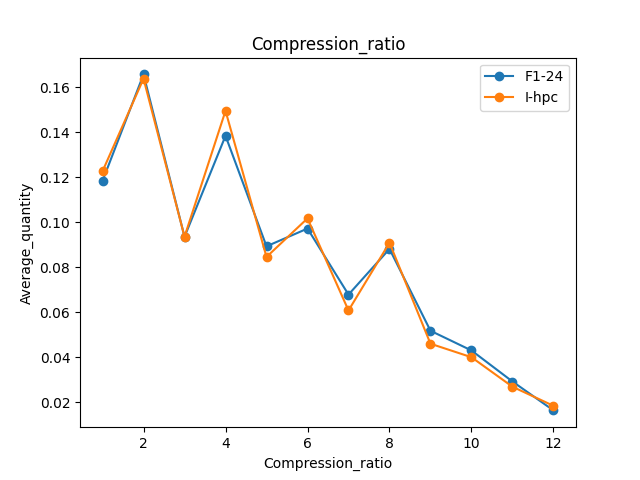
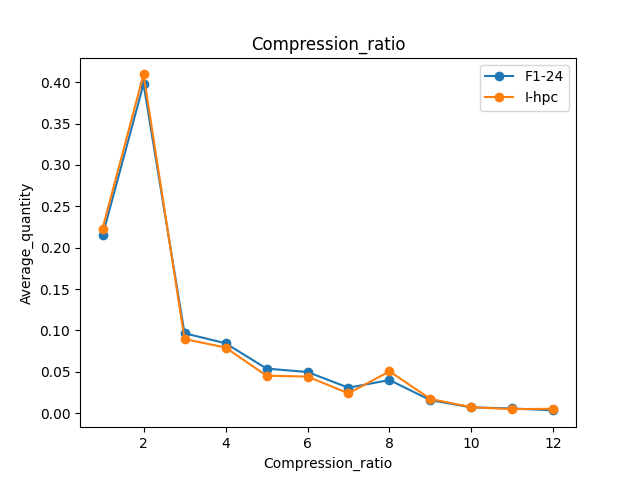
Upgrade compression

diff --git a/analysis.cpp b/analysis.cpp
@@ -19,7 +19,7 @@ CompressionsData::CompressionsData(Seria& s) {
 
 void CompressionsData::PathAnalysis(const std::string& from, const std::string& to, std::vector<Stat>& stat) {
     bool visited[2] = {false, false};
-    size_t pos[2] = {from.size(), from.size()};
+    size_t pos[3] = { from.size(), from.size(), from.size() };
     size_t id = 0;
     for (size_t i = 0; i < from.size(); i++) {
         for (size_t num = 0; num < CNT_FEEDERS; num++) {
@@ -28,37 +28,34 @@ void CompressionsData::PathAnalysis(const std::string& from, const std::string& 
                 pos[id++] = i;
             }
         }
-    }    
-    for (size_t i = 0; i < pos[0]; i++) {
-        for (size_t j = i + MIN_COMPRESSION_SIZE - 1; j < std::min(pos[0], MAX_COMPRESSION_SIZE + i - 1); j++) {
-            TryFindCompression(i, j, from, to, stat);
-        }
     }
-    for (size_t i = pos[0]; i < pos[1]; i++) {
-        for (size_t j = i + MIN_COMPRESSION_SIZE - 1; j < std::min(pos[1], MAX_COMPRESSION_SIZE + i - 1); j++) {
-            TryFindCompression(i, j, from, to, stat);
-        }
-    }
-    for (size_t i = pos[1]; i < from.size(); i++) {
-        for (size_t j = i + MIN_COMPRESSION_SIZE - 1; j < std::min(from.size(), MAX_COMPRESSION_SIZE + i - 1); j++) {
-            TryFindCompression(i, j, from, to, stat);
-        }
+    for (size_t k = 0; k < CNT_OF_PARTS; k++) {
+        size_t i = 0;
+        if (k > 0) i = pos[k - 1];
+        for (; i < pos[k]; i++) {
+            for (size_t j = i + MIN_COMPRESSION_SIZE - 1; j < std::min(pos[k], MAX_COMPRESSION_SIZE + i - 1); j++) {
+                if (TryFindCompression(i, j, from, to, stat)) break;
+            }
+        }    
     }
 }
 
-void CompressionsData::TryFindCompression(size_t fr, size_t to, const std::string& b, const std::string& s, std::vector<Stat>& stat) {
+bool CompressionsData::TryFindCompression(size_t fr, size_t to, const std::string& b, const std::string& s, std::vector<Stat>& stat) {
     size_t len = to - fr + 1;
+    bool fl = false;
     for (size_t i = 0; i < s.size(); i++) {
         if (s[i] == b[fr]) {
             for (size_t j = i; j < std::min(s.size(), i + len - 1); j++) {
                 if (s[j] == b[to]) {
                     stat.emplace_back(Stat{ b.substr(fr, len), s.substr(i, j - i + 1), d_.GetDist(std::string(1, s[i]), std::string(1, s[j]))});
+                    fl = true;
                     i = j;
                     break;
                 }   
             }
         }
     }
+    return fl;
 }
 
 void CompressionsData::Stat::Print() const {

diff --git a/analysis.h b/analysis.h
@@ -36,7 +36,7 @@ public:
     void Print() const;
     std::vector<std::pair<uint32_t, double>> GetCompressionCoord() const;
 private:
-    void TryFindCompression(size_t fr, size_t to, const std::string& b, const std::string& s, std::vector<Stat>& stat);
+    bool TryFindCompression(size_t fr, size_t to, const std::string& b, const std::string& s, std::vector<Stat>& stat);
     void PathAnalysis(const std::string& from, const std::string& to, std::vector<Stat>& stat);
     std::map<std::string, std::vector<Stat>> data_;
     DistMatrix d_;
